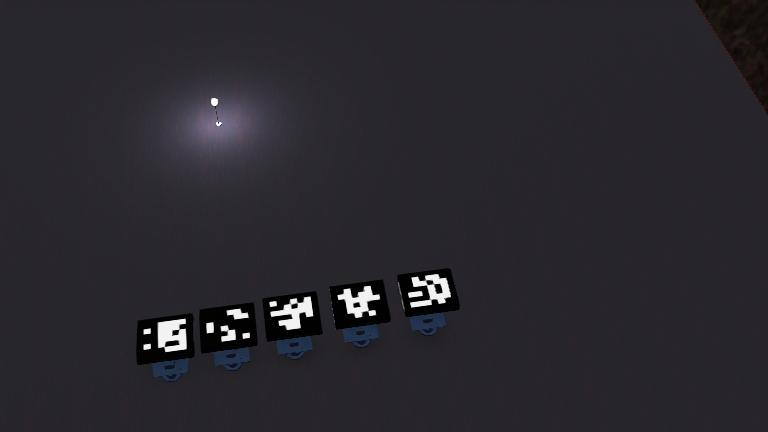
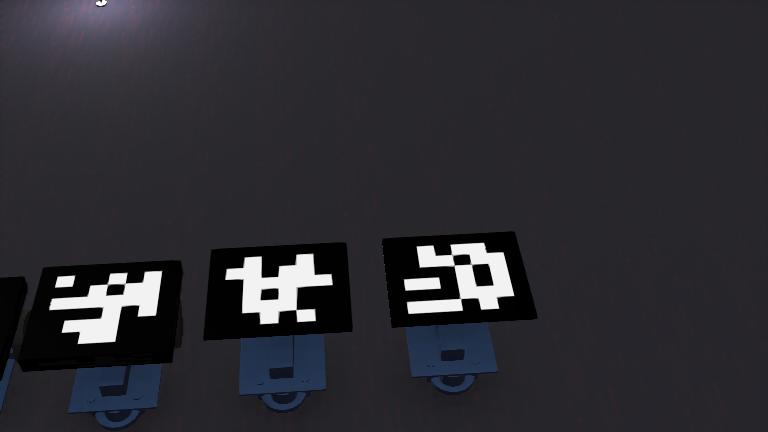
crying myself to sleep

diff --git a/Server/MQTTConnect.py b/Server/MQTTConnect.py
@@ -11,13 +11,16 @@ CAMERA_ATTACHED = False
 if CAMERA_ATTACHED:
     marker_detection = MarkerDetector(cameraSource=0, camType=0, debug=False)
 
-#define on connect
+
+webotscam_attatched = True
+if webotscam_attatched:
+    marker_detection = MarkerDetector(cameraSource='localhost:5000/video_feed', camType=2, debug=False)
+
 def on_connect(client, userdata, flags, rc):
     if rc == 0:
         print("Server connected to MQTT Broker!")
         client.subscribe("server/info")
         client.subscribe("swarm/register")
-        
     else:
         print("Failed to connect, return code", rc)
 
@@ -38,37 +41,36 @@ def on_message(client, userdata, msg):
         if payload == "start":
             print("Received 'start' message on 'server/info' topic")
             setup_bots(client)
+        else:
+            print("make the convo brief")
+
+            
 
 
-    # def setup_bots(client, threshold=10):
-    # '''
-    # get list of connected bots. get initial positions. move one bot. get positions. mark bot that moved as the marker id. save to real_bots. 
-    # '''
-    # if CAMERA_ATTACHED:
-    #     print("Connected bots")
-    #     print("Connected bots")
-    #     for bot in connected_bots:
-    #         marker_list = marker_detection.detectMarkers()
-    #         client.publish(f"robots/{bot}/receive", f"MOVE_FORWARD")
-    #         time.sleep(2)
-    #         new_marker_list = marker_detection.detectMarkers()
-
-    #         for i in range(len(marker_list)):
-    #             old_position = marker_list[i]['position']
-    #             new_position = new_marker_list[i]['position']
-    #             delta_x = abs(new_position[0] - old_position[0])
-    #             delta_y = abs(new_position[1] - old_position[1])
-    #             if delta_x > threshold or delta_y > threshold:
-    #                 real_bots.append({
-    #                     'robot_id': bot,
-    #                     'marker_id': marker_list[i]['id'] 
-    #                 })
-    # else:
-    #     print("tandpasta")
 def setup_bots(client, threshold=10):
-     print("Connected bots")
-     for bot in connected_bots:
-        print(bot)
+    if CAMERA_ATTACHED:
+        print("Connected bots")
+        for bot in connected_bots:
+            while True:  # Continuously detect markers and move the robot
+                marker_list = marker_detection.detectMarkers()
+                client.publish(f"robots/{bot}/receive", f"MOVE_FORWARD")
+                time.sleep(2)
+                new_marker_list = marker_detection.detectMarkers()
+
+                for i in range(len(marker_list)):
+                    old_position = marker_list[i]['position']
+                    new_position = new_marker_list[i]['position']
+                    delta_x = abs(new_position[0] - old_position[0])
+                    delta_y = abs(new_position[1] - old_position[1])
+                    if delta_x > threshold or delta_y > threshold:
+                        real_bots.append({
+                            'robot_id': bot,
+                            'marker_id': marker_list[i]['id'] 
+                        })
+                break  # Exit the loop after one iteration to move to the next robot or next execution of setup_bots
+    else:
+        print("Camera not attached")
+
 
 def connect_mqtt():
     

diff --git a/ASWebotsV2/controllers/Camera/Camera.py b/ASWebotsV2/controllers/Camera/Camera.py
@@ -1,0 +1,62 @@
+from controller import Robot, Camera
+import cv2
+import numpy as np
+from flask import Flask, Response
+
+# Create the Robot instance.
+robot = Robot()
+
+# Time step of the simulation in milliseconds.
+timeStep = int(robot.getBasicTimeStep())
+
+# Get the camera device.
+camera = robot.getDevice("camera")
+camera.enable(timeStep)
+
+# Initialize Flask app
+app = Flask(__name__)
+
+# Frame to be served
+frame = None
+
+@app.route('/video_feed')
+def video_feed():
+    global frame
+    return Response(generate(), mimetype='multipart/x-mixed-replace; boundary=frame')
+
+def generate():
+    global frame
+    while True:
+        if frame is not None:
+            ret, jpeg = cv2.imencode('.jpg', frame)
+            if ret:
+                yield (b'--frame\r\n'
+                       b'Content-Type: image/jpeg\r\n\r\n' + jpeg.tobytes() + b'\r\n\r\n')
+
+# Function to update the frame
+def update_frame():
+    global frame
+    while robot.step(timeStep) != -1:
+        # Capture image from the camera.
+        image = camera.getImage()
+
+        if image:
+            width = camera.getWidth()
+            height = camera.getHeight()
+            
+            # Convert the image to a numpy array.
+            image_array = np.frombuffer(image, np.uint8).reshape((height, width, 4))
+            
+            # Convert the BGRA image to BGR for OpenCV processing.
+            frame = cv2.cvtColor(image_array, cv2.COLOR_BGRA2BGR)
+        
+        # Perform other robot tasks here...
+
+# Start the frame update in a separate thread
+import threading
+thread = threading.Thread(target=update_frame)
+thread.start()
+
+# Run the Flask app
+if __name__ == "__main__":
+    app.run(host='0.0.0.0', port=5000)
